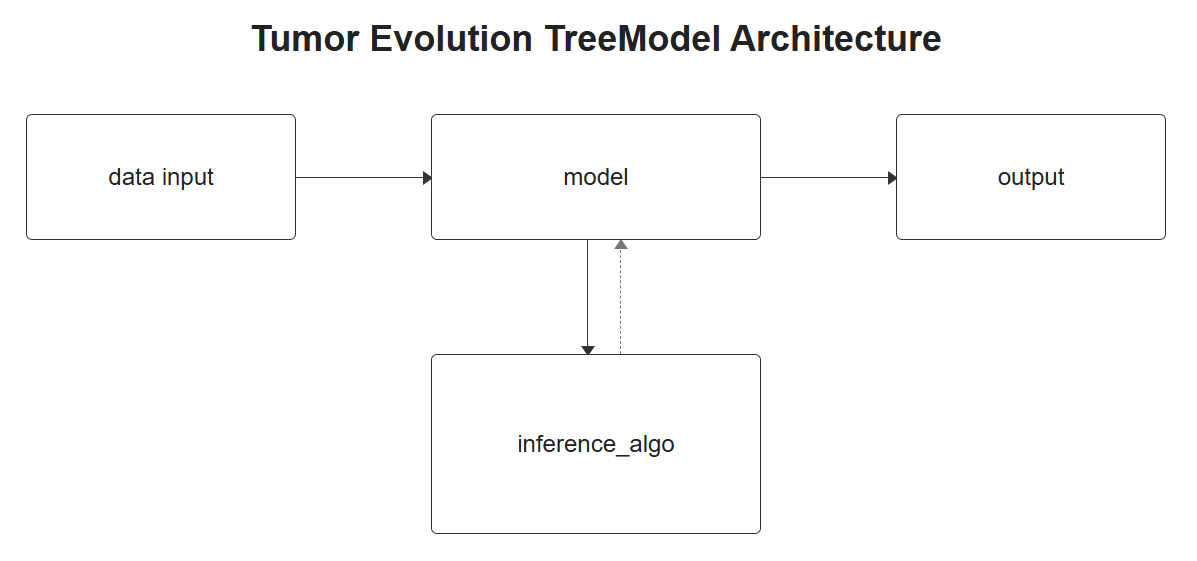
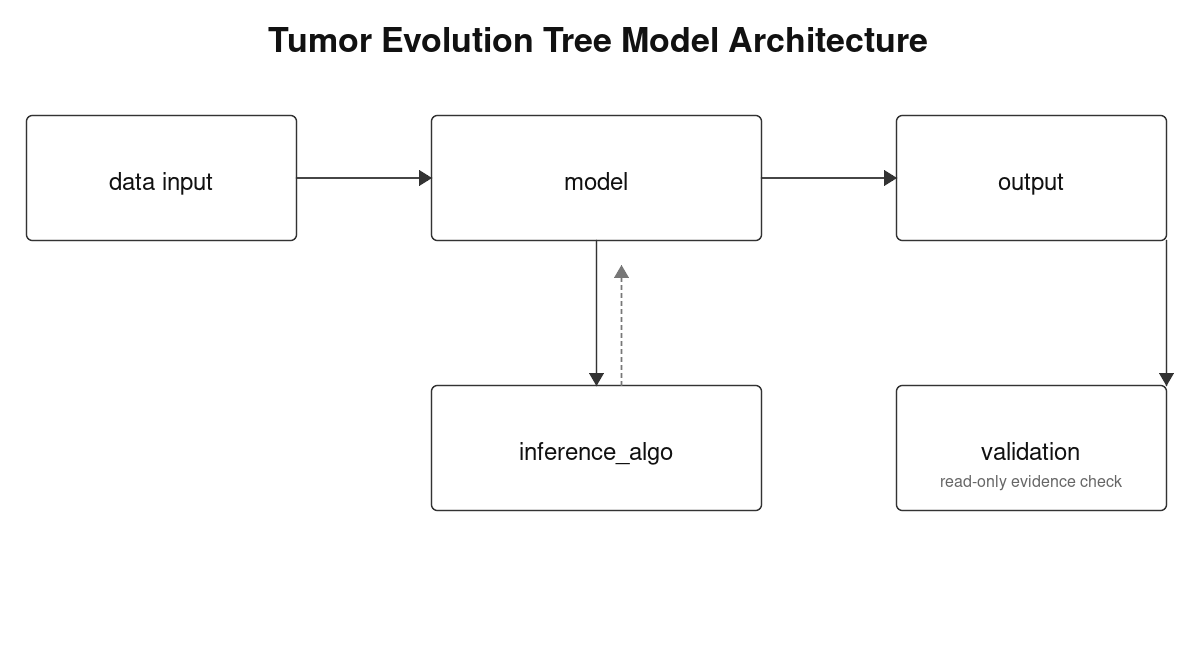
docs: add validation to research architecture

diff --git a/README.md b/README.md
@@ -2,16 +2,16 @@
 
 目前 repo 的研究輸入、模型、推理與輸出文件：
 
-- [arch.md](arch.md)：整體研究架構；說明 `data input`、`model`、`inference_algo` 與 `output` 四個可替換模塊，以及它們之間的文件引用與資料流向
+- [arch.md](arch.md)：整體研究架構；說明 `data input`、`model`、`inference_algo`、`output` 與 `validation` 的文件引用與資料流向
 - [data.md](data.md)：canonical data/provenance
 - [model.md](model.md)：model specification（posterior、likelihood、prior 與 latent quantities）
-- [inference_algo.md](inference_algo.md)：inference algorithm specification；說明如何以目前 finite-K compound MCMC 從 model posterior 推理 `T`、`eta` 與 SNV assignment `z`，以及可替換 backend 的 input/output contract
+- [inference_algo.md](inference_algo.md)：目前 Rao–Blackwellized annealed SMC 的推理流程、particle state、ESS/resampling、rejuvenation 與 backend input/output contract
 - [output.md](output.md)：模型輸出解讀；集中說明 clone topology、由 `phi` 表示的 CCF，以及每個 SNV 被分配到哪個 clone，並提供三-clone ASCII 示意圖
-- [support.md](support.md)：output 後的獨立 support evaluator 規格；依序驗證 topology、CCF/`phi` 與 SNV→clone assignment，並檢查推理可靠性、ASCAT/CN/LOH compatibility、holdout、topology stability 與最終 claim grade。CNV event→node 與 driver annotation 在此列為 optional evidence，不會直接加入模型 likelihood
-- [experiment_workflow.md](experiment_workflow.md)：整合 `arch.md` 四個模塊的實驗執行、QA、分階段 gate 與錯誤追蹤紀錄流程
+- [validation.md](validation.md)：output 後的獨立、read-only validation；整合 SMC adequacy、topology/CCF/SNV assignment、bulk CN/LOH compatibility、optional CNV/driver evidence 與 claim ceiling
+- [experiment_workflow.md](experiment_workflow.md)：整合 `arch.md` 核心模塊的實驗執行、QA、分階段 gate 與錯誤追蹤紀錄流程
 - [tumor_tree_pipeline/](tumor_tree_pipeline/)：正式、可版本控制的建表、Python workflow 與 gate wrapper
-- [inference/](inference/)：active C++17 finite-K compound MCMC backend，提供 AlgorithmRegistry、chain/site 平行化與六個 inference artifacts（包含每個 SNV 的 multiplicity posterior）
+- [inference/](inference/)：active C++17 finite-K annealed SMC backend，提供 AlgorithmRegistry、repeat/site 平行化與 particle artifacts（包含每個 SNV 的 multiplicity posterior）
 - `daily/`：每天產生的 HTML的相關資料和每日總結。
 
-建議文件閱讀順序是 `arch.md` → `data.md` → `model.md` → `inference_algo.md` → `output.md` → `support.md`：
-先從 `arch.md` 掌握四個模塊的分工與連線，再確認資料表、posterior model、推理演算法與模型輸出，最後用 `support.md` 驗證輸出能支持到哪一層研究 claim。
+建議文件閱讀順序是 `arch.md` → `data.md` → `model.md` → `inference_algo.md` → `output.md` → `validation.md`：
+先從 `arch.md` 掌握模塊分工與連線，再確認資料表、posterior model、推理演算法與模型輸出，最後用 `validation.md` 驗證輸出能支持到哪一層研究 claim。

diff --git a/arch.md b/arch.md
@@ -1,17 +1,18 @@
 # Tumor-tree research architecture
 
-更新日期：2026-08-21
+更新日期：2026-08-24
 
 ![alt text](arch.png)
 
-## 四個模塊與文件引用
+## 核心模塊與 validation 文件引用
 
 | 模塊 | 核心文件 | 大致責任 |
 |---|---|---|
 | `data input` | [`data.md`](data.md) | 定義資料來源、provenance，以及交給 model 的資料介面 |
 | `model` | [`model.md`](model.md) | 定義研究要解的 model、posterior 與參數語意 |
-| `inference_algo` | [`inference_algo.md`](inference_algo.md) | 定義如何根據 model 進行參數推理；可替換 MCMC、MAP、VI 或其他方法 |
+| `inference_algo` | [`inference_algo.md`](inference_algo.md) | 定義如何根據 model 進行參數推理；目前是 SMC，之後可替換其他方法 |
 | `output` | [`output.md`](output.md) | 定義如何解讀推理結果，例如 topology、CCF 與 SNV assignment |
+| `validation` | [`validation.md`](validation.md) | 只讀取 output 與相關 artifacts，檢查結果可靠性、bulk compatibility 與 claim ceiling |
 
 ## 文件之間的關係
 
@@ -36,6 +37,13 @@ contract。
 `model.md` 定義輸出參數的意義，`output.md` 負責把這些參數轉成容易理解的
 拓樸、CCF 與 SNV assignment 表示方式。
 
+### 5. `output → validation`
+
+`validation.md` 是 output 後的獨立、read-only 評估層。它不重新推理，也不修改
+model、inference 設定或 output；只根據 run provenance、SMC diagnostics、tree
+structure、CCF、SNV assignment、holdout 與 bulk CN/LOH evidence，判定目前結果
+最多能支持到哪一層研究 claim。
+
 ## 可替換模塊的邊界
 
 ```text
@@ -43,16 +51,17 @@ data input     可替換資料來源與建表流程
 model          可替換 posterior／likelihood 定義
 inference_algo 可替換參數推理方法
 output         可替換結果呈現方式
+validation     可替換驗證實作，但維持 read-only evidence contract
 ```
 
-四個文件各自描述一個模塊的 contract，不在彼此之間重複實作細節。研究流程
-只需要確認相鄰模塊的輸入／輸出 contract 相容，就能替換其中一個模塊而不必
-重寫整個研究架構。
+前四個文件描述可替換的核心模塊；`validation.md` 描述 output 後的評估 contract。
+研究流程只需要確認相鄰模塊的輸入／輸出 contract 相容，就能替換其中一個核心
+模塊，而不必重寫整個研究架構。
 
 ## 實驗流程與紀錄
 
-[`experiment_workflow.md`](experiment_workflow.md) 是這四個模塊之上的編排與
+[`experiment_workflow.md`](experiment_workflow.md) 是核心模塊之上的編排與
 稽核文件：它固定資料如何交給 model、inference algorithm 如何執行、output
-如何驗收，並要求每個階段留下輸入 provenance、設定、QA、diagnostic 與錯誤
-receipt。它不屬於四個可替換模塊本身，因此替換任一模塊時，只要維持相鄰
+如何交給 validation，並要求每個階段留下輸入 provenance、設定、QA、diagnostic
+與錯誤 receipt。它不屬於核心模塊本身，因此替換任一模塊時，只要維持相鄰
 contract 與紀錄格式，整體實驗流程仍可追溯。
